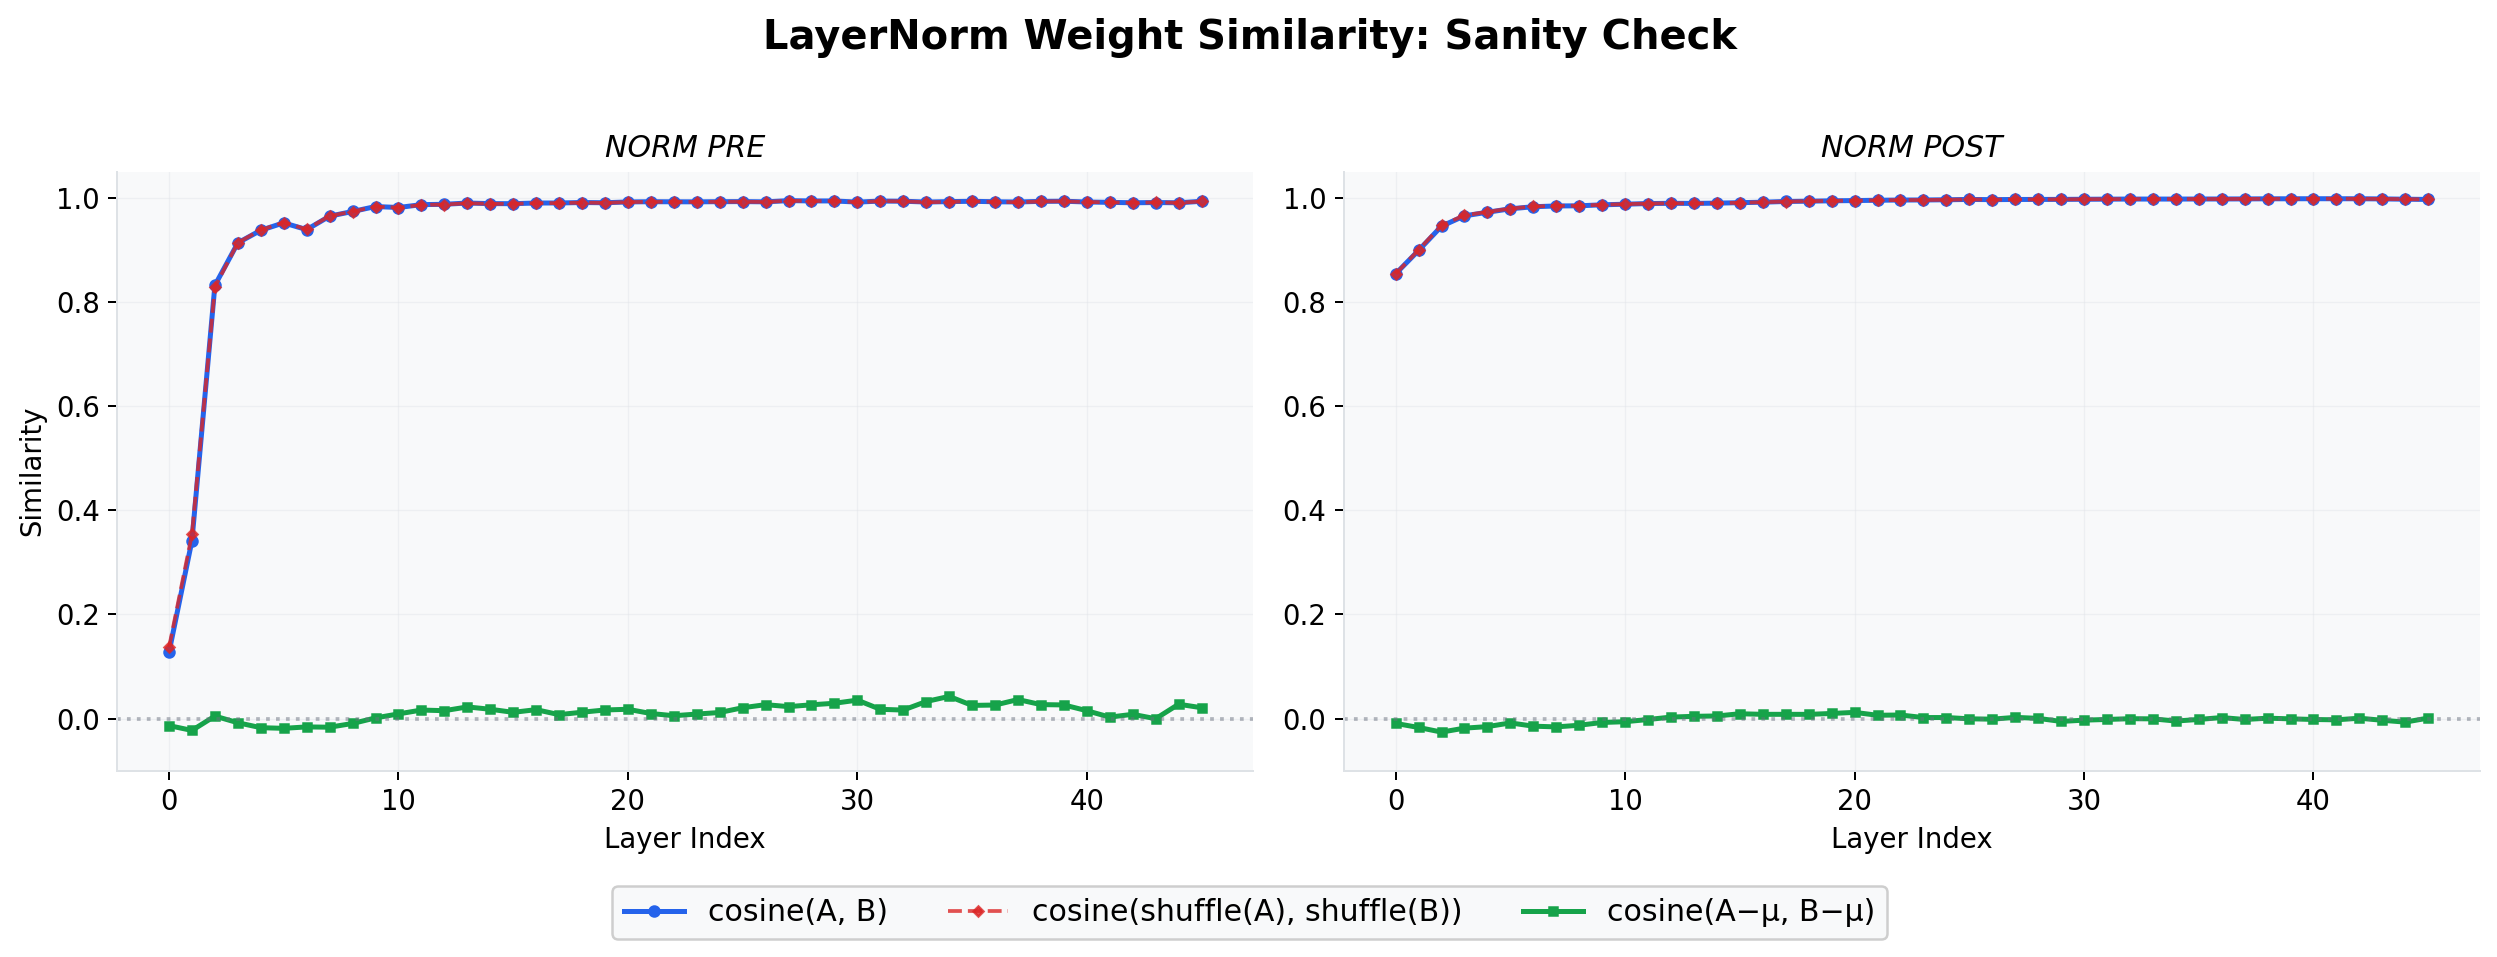
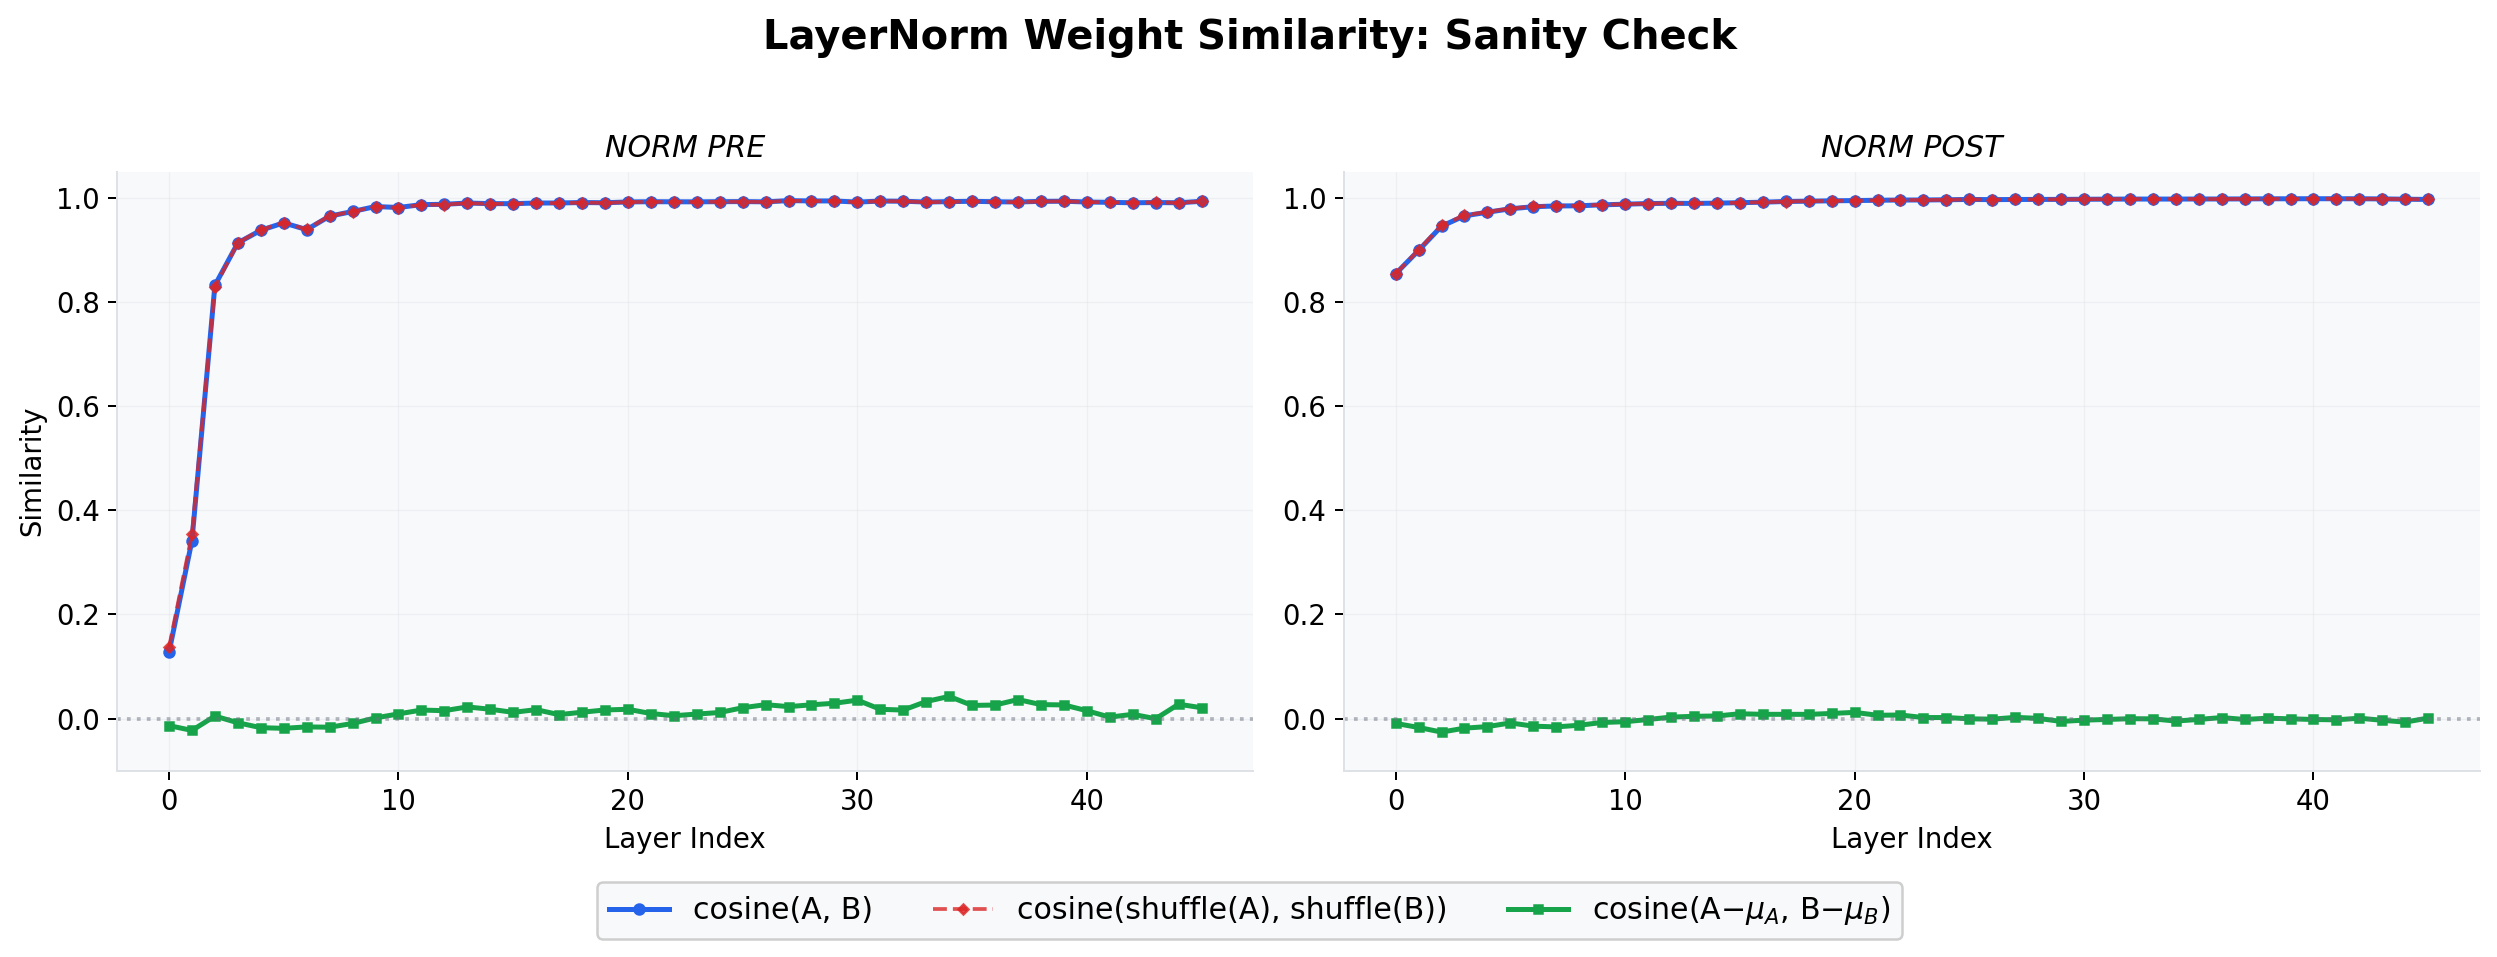
fix notation

Changed region(s): [[0.2187, 0.9091, 0.7809, 0.9697]]

diff --git a/probe_layernorm_sanity.py b/probe_layernorm_sanity.py
@@ -144,8 +144,8 @@ def fetch_tensor(key: str, header: Dict[str, Any], token: Optional[str]) -> np.n
 
 
 def cosine(a: np.ndarray, b: np.ndarray) -> float:
-    a = a.reshape(-1).astype(np.float64)
-    b = b.reshape(-1).astype(np.float64)
+    a = a.reshape(-1)
+    b = b.reshape(-1)
     na = np.linalg.norm(a)
     nb = np.linalg.norm(b)
     if na == 0.0 or nb == 0.0:
@@ -154,8 +154,8 @@ def cosine(a: np.ndarray, b: np.ndarray) -> float:
 
 
 def centered_cosine(a: np.ndarray, b: np.ndarray) -> float:
-    a = a.reshape(-1).astype(np.float64)
-    b = b.reshape(-1).astype(np.float64)
+    a = a.reshape(-1)
+    b = b.reshape(-1)
     a = a - a.mean()
     b = b - b.mean()
     na = np.linalg.norm(a)
@@ -167,8 +167,8 @@ def centered_cosine(a: np.ndarray, b: np.ndarray) -> float:
 
 def shuffled_cosine(a: np.ndarray, b: np.ndarray, seed: int = 42) -> float:
     rng = np.random.default_rng(seed)
-    a = a.reshape(-1).astype(np.float64)
-    b = b.reshape(-1).astype(np.float64)
+    a = a.reshape(-1)
+    b = b.reshape(-1)
     a_shuffled = rng.permutation(a)
     b_shuffled = rng.permutation(b)
     na = np.linalg.norm(a_shuffled)
@@ -353,7 +353,7 @@ def main():
                 print(
                     f"Layer {lb:3d} {cat:12s}: "
                     f"cos(A,B)={cos_ab:.4f}, cos(shuf(A),shuf(B))={cos_shuffled:.4f}, "
-                    f"centered={cos_centered:.4f}, A_μ={A.mean():.4f}, B_μ={B.mean():.4f}"
+                    f"centered={cos_centered:.4f}, μ_A={A.mean():.4f}, μ_B={B.mean():.4f}"
                 )
 
                 rows.append(
@@ -449,7 +449,7 @@ def main():
             markersize=3,
             linewidth=2,
             color=COLOR_CENTERED,
-            label="cosine(A−μ, B−μ)",
+            label=r"cosine(A−$\mu_A$, B−$\mu_B$)",
         )
         ax.axhline(y=0, color="#6b7280", linestyle=":", alpha=0.5)
         ax.set_xlabel("Layer Index", fontweight="medium")
@@ -504,7 +504,7 @@ def main():
         print(f"\n{cat}:")
         print(f"  Mean cosine(A, B):                      {cos_mean:.4f}")
         print(f"  Mean cosine(shuffle(A), shuffle(B)):    {shuf_mean:.4f}")
-        print(f"  Mean centered cosine (A−μ, B−μ):        {cent_mean:.4f}")
+        print(f"  Mean centered cosine (A−μ_A, B−μ_B):    {cent_mean:.4f}")
 
         if abs(cos_mean - shuf_mean) < 0.1:
             print(f"  [!] Original ~ Shuffled: cosine may be meaningless")

diff --git a/README.md b/README.md
@@ -10,7 +10,7 @@
 |------|------|------|
 | Original | `cosine(A, B)` | 원본 유사도 |
 | Shuffled | `cosine(shuffle(A), shuffle(B))` | 순서 무관 baseline |
-| Centered | `cosine(A−μ, B−μ)` | 평균 제거 후 (= Pearson) |
+| Centered | `cosine(A−μ_A, B−μ_B)` | 평균 제거 후 |
 
 ## 실행
 
@@ -32,4 +32,4 @@ out_sanity/
 
 - **파란선**: cosine(A, B)
 - **빨간선**: cosine(shuffle(A), shuffle(B))
-- **초록선**: cosine(A−μ, B−μ)
+- **초록선**: cosine(A−μ_A, B−μ_B)
